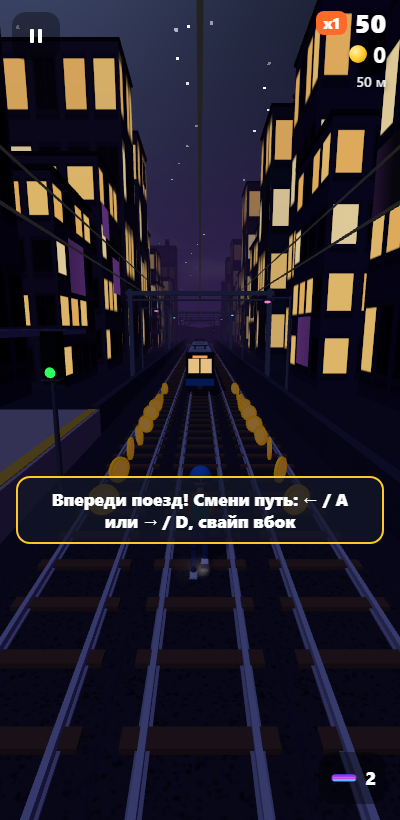
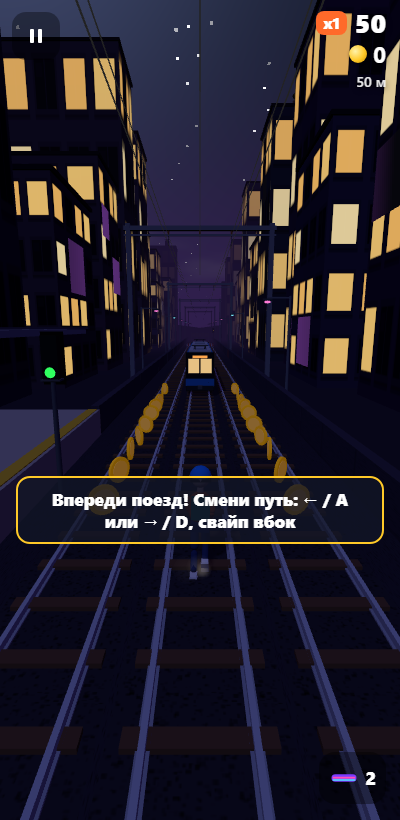
2.0.1: версия, README (34 сценария страницы, 72 мутанта), новые кадры README (npm run screens), CHANGELOG

diff --git a/web/js/app.js b/web/js/app.js
@@ -8,7 +8,7 @@
 // ?preserve=1 - keep the picture for screenshots.
 (function () {
   'use strict';
-  const VERSION = '2.0.0';
+  const VERSION = '2.0.1';
   const R = window.RRCore, M = window.RRMeta, I = window.RRI18n, A = window.RRAudio;
   const DT = R.C.DT;
   const STORE = 'railrunner:save';

diff --git a/CHANGELOG.md b/CHANGELOG.md
@@ -1,6 +1,6 @@
 # Changelog / Журнал изменений
 
-## 2.0.1 - не выпущено / unreleased
+## 2.0.1 - 2026-10-17
 
 - Ramps to the trains were see-through: the slope's faces were wound inside out and were not drawn. / Пандусы к поездам были прозрачными: грани склона были вывернуты наизнанку и не рисовались.
 - The overhead wires hung at 5.85 m: on a train roof the camera sat right above the wire and the black wire covered the runner, a jump went through the wires. Now the catenary hangs at 10.2 m, above the runner, the jetpack and the camera. / Провода висели на 5,85 м: на крыше поезда камера оказывалась прямо над проводом, чёрный провод закрывал бегуна, прыжок проходил сквозь провода. Теперь контактная сеть на 10,2 м - выше бегуна, ранца и камеры.

diff --git a/README.ru.md b/README.ru.md
@@ -141,9 +141,9 @@ tools/mutate.js     проверка проверок: ломает правил
 ```
 npm ci
 npm test            # 61 закон правил и прогресса, ~40 с
-npm run test:web    # 30 сценариев страницы, ~15 мин
+npm run test:web    # 34 сценария страницы, ~20 мин
 npm run test:app    # 3 закона программы, ~1 мин
-npm run mutate      # 64 мутанта, ~40 мин (node tools/mutate.js --check - только проверить, что поломки на месте)
+npm run mutate      # 72 мутанта, ~50 мин (node tools/mutate.js --check - только проверить, что поломки на месте)
 npm run screens     # кадры для README
 npm run dist        # dist/RailRunner-<версия>-Setup.exe и -Portable.exe
 ```

diff --git a/README.md b/README.md
@@ -147,9 +147,9 @@ tools/mutate.js     testing the tests: breaks the rules one by one, the laws mus
 ```
 npm ci
 npm test            # 61 laws of the rules and the progress, ~40 s
-npm run test:web    # 30 page scenarios, ~15 min
+npm run test:web    # 34 page scenarios, ~20 min
 npm run test:app    # 3 app laws, ~1 min
-npm run mutate      # 64 mutants, ~40 min (node tools/mutate.js --check only checks the breakages fit)
+npm run mutate      # 72 mutants, ~50 min (node tools/mutate.js --check only checks the breakages fit)
 npm run screens     # README frames
 npm run dist        # dist/RailRunner-<version>-Setup.exe and -Portable.exe
 ```
